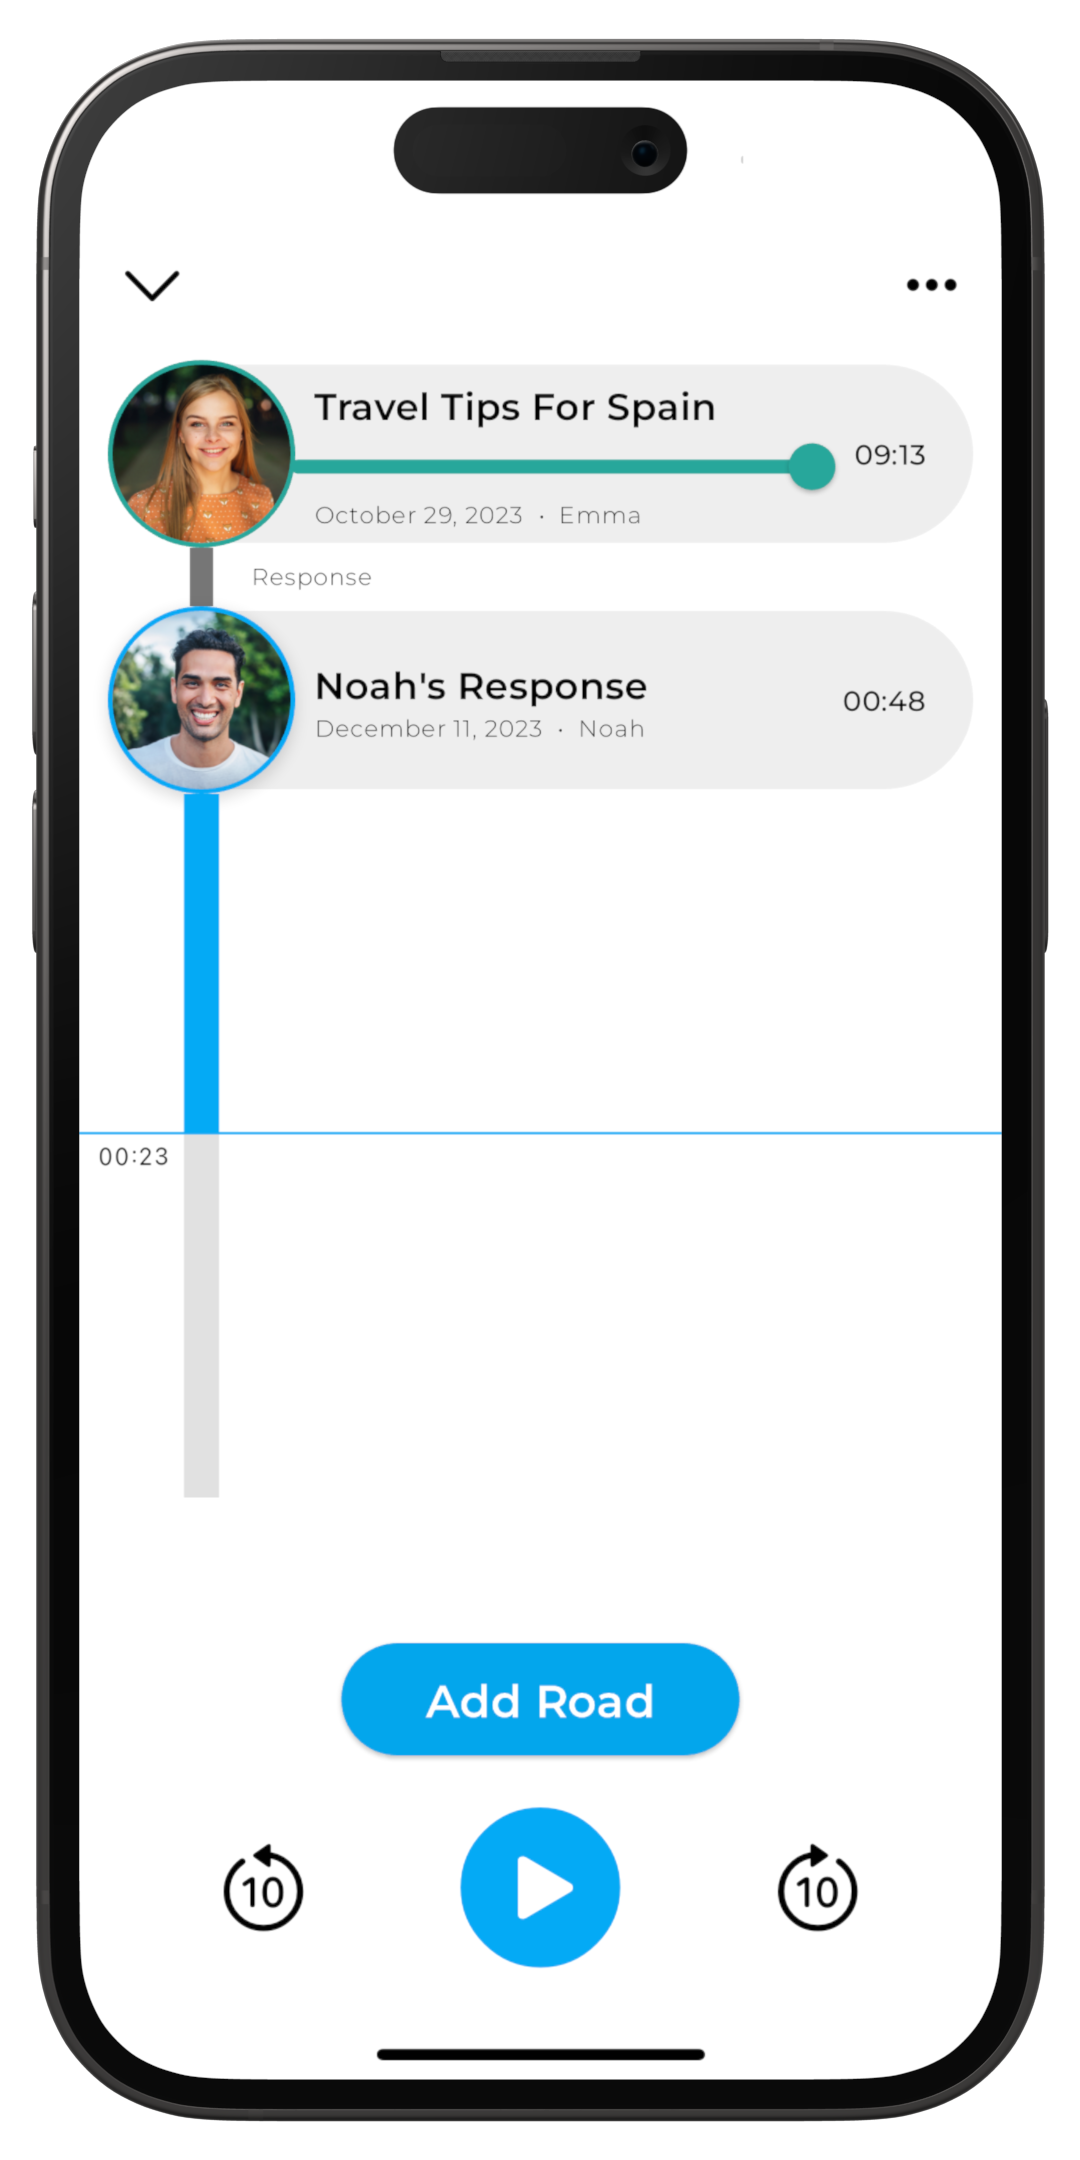
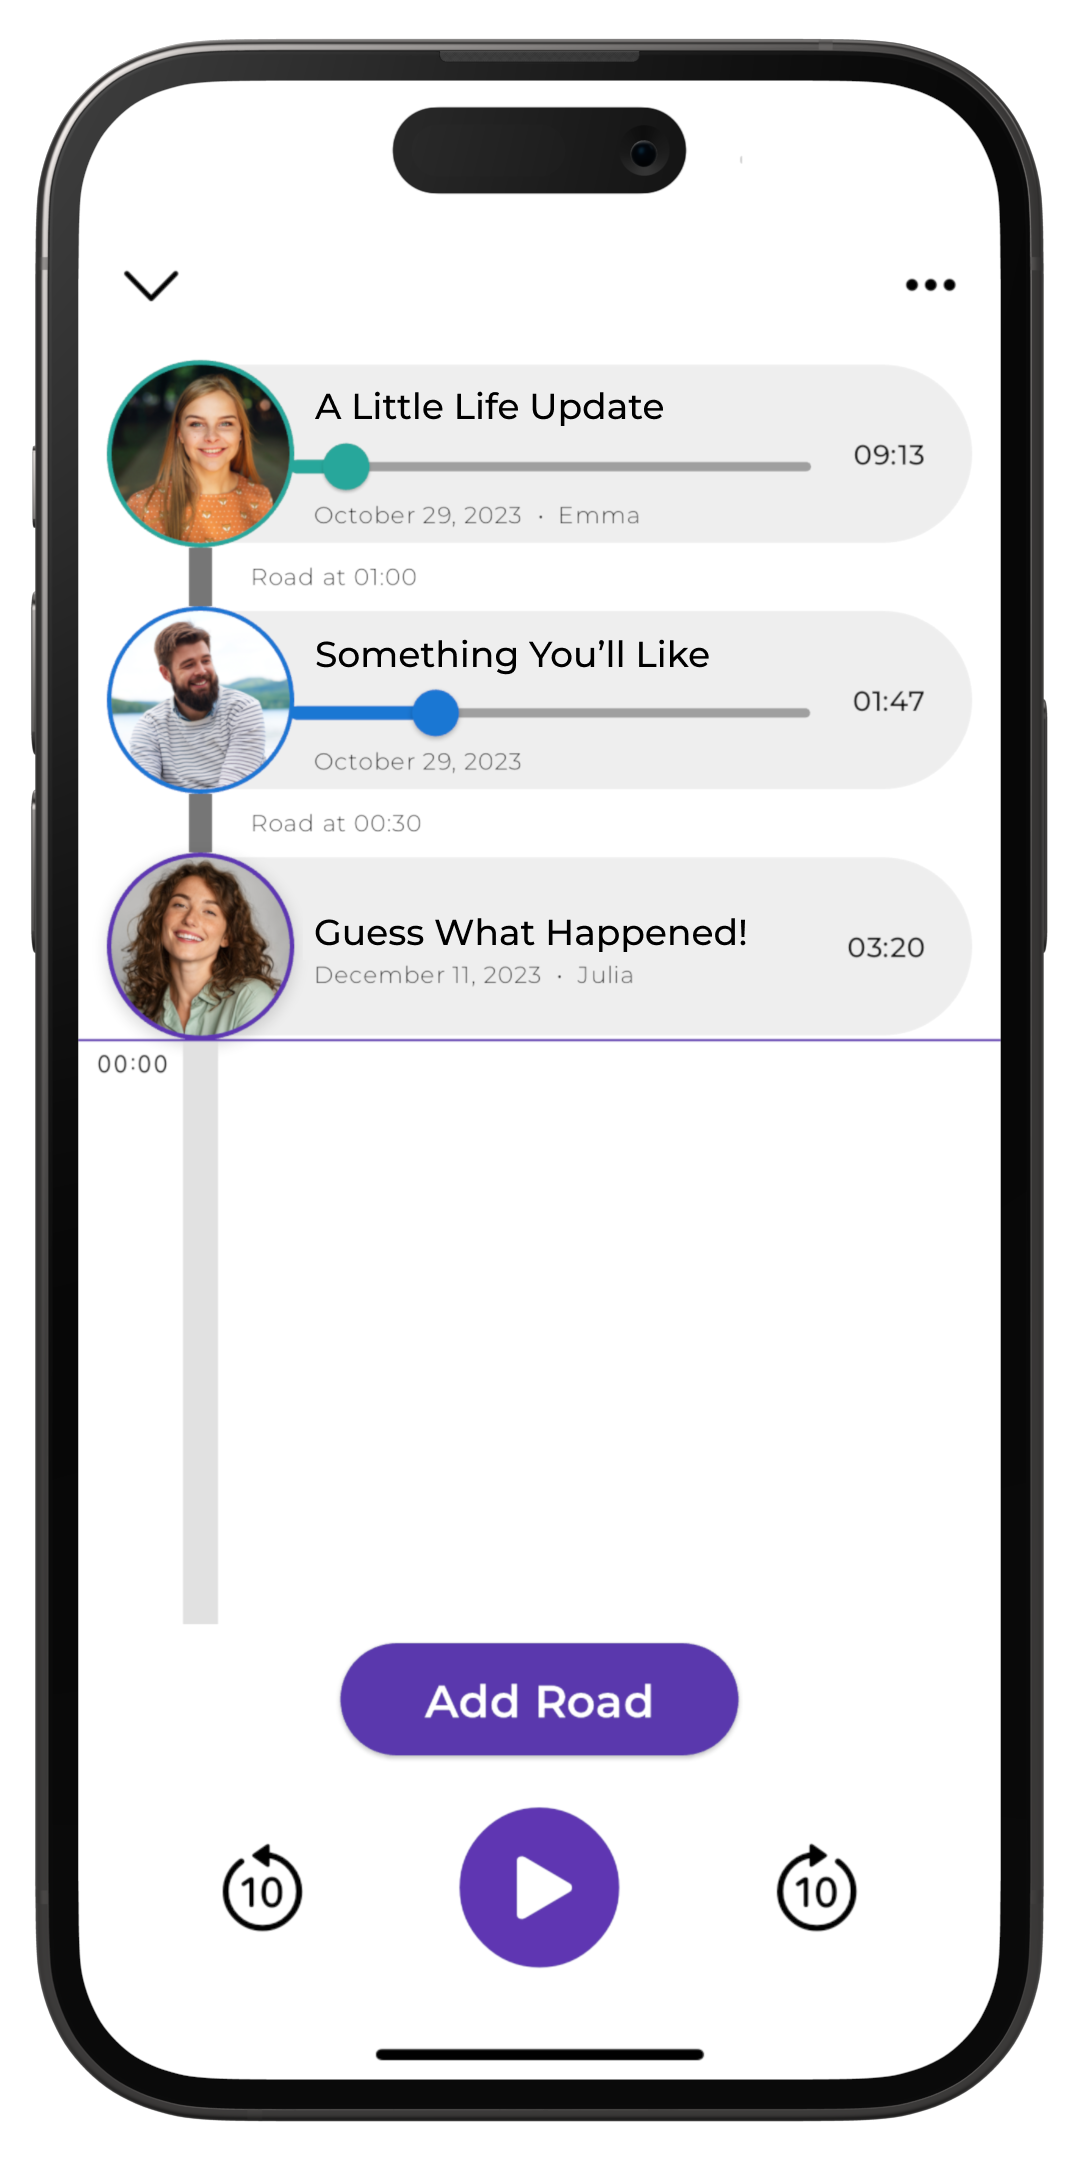
update device images

diff --git a/src/pages/index.js b/src/pages/index.js
@@ -70,7 +70,7 @@ export default function Home() {
               <div className={`${styles.backsplash_container} col-md-6 col-lg-4 text-center`} >
                 <div className={`${styles.backsplash} mx-auto`}></div>
                 <Image 
-                  src="/images/phones/device_15_player_simple2.png" 
+                  src="/images/phones/device_15_player_response.png" 
                   alt="Screenshot of Roads app showing the main player with several comments."
                   height={400}
                   width={200}
@@ -90,7 +90,7 @@ export default function Home() {
               <div className={`${styles.backsplash_container} col-md-6 col-lg-4 offset-lg-1 text-center`} >
                 <div className={`${styles.backsplash} mx-auto`}></div>
                 <Image 
-                  src="/images/phones/device_15_player_nested.png" 
+                  src="/images/phones/device_15_player_simple.png" 
                   alt="Screenshot of Roads app showing the home page where new comments left by other users can be listened to."
                   height={400}
                   width={200}
@@ -107,8 +107,8 @@ export default function Home() {
               <div className={`${styles.backsplash_container} col-md-6 col-lg-4 text-center`} >
                 <div className={`${styles.backsplash} mx-auto`}></div>
                 <Image 
-                  src="/images/phones/device_15_channel_invite.png" 
-                  alt="Screenshot of Roads app showing how to select friends to add to a channel."
+                  src="/images/phones/device_15_channel.png" 
+                  alt="Screenshot of Roads app showing private channel titled 'Friends from way back'"
                   height={400}
                   width={200}
                   className={`${styles.backsplash_image} phone_shadow`}
